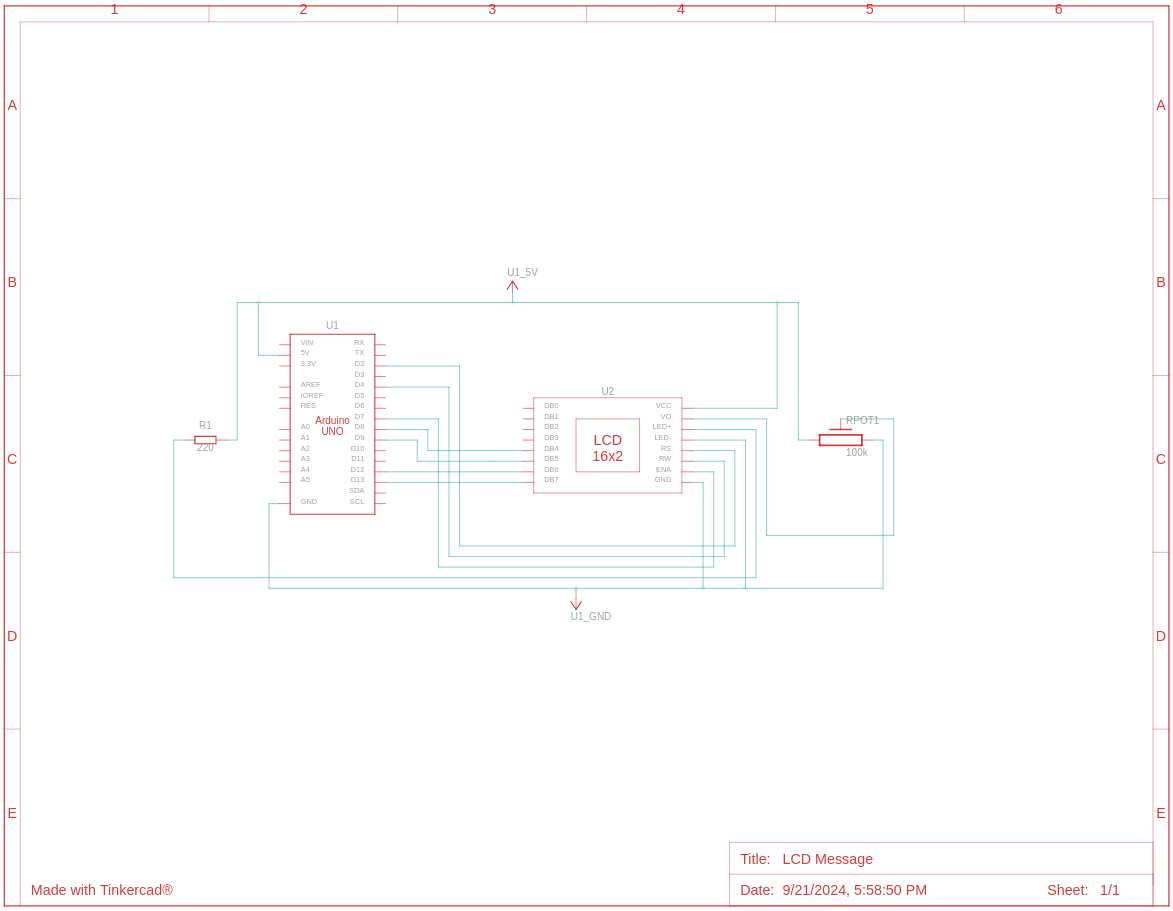
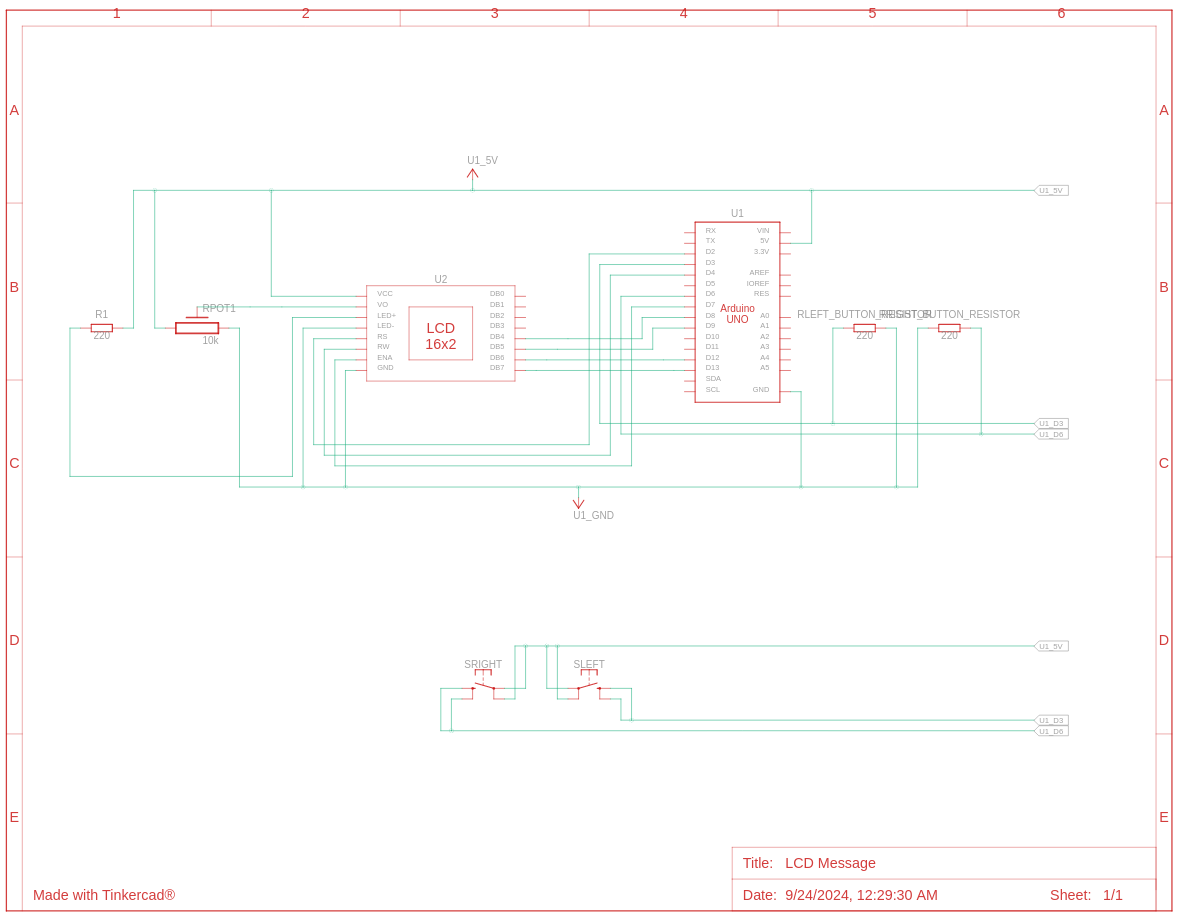
Implemented display shift to left and right so message could be read

diff --git a/lcd/simple_lcd_message/lcd.h b/lcd/simple_lcd_message/lcd.h
@@ -11,6 +11,8 @@
 #define LCD_CMD_RETURN_HOME 0x02 // Also cuold be set to 0b00000010
 #define LCD_CMD_DISPLAY_OFF 0x80 // Also could be set to 0b10000000
 #define LCD_CMD_CURSOR_BLINK 0x0F // Also could be set to 0b00001111
+#define LCD_CMD_SHIFT_TO_LEFT 0x18
+#define LCD_CMD_SHIFT_TO_RIGHT 0x1C
 
 // LCD Data transfer mode
 #define LCD_CMD_4BIT_5x11 0x2c 
@@ -22,6 +24,7 @@
 #define CTL_BUS PORTD
 #define DATA_DDR DDRB
 #define CTL_DDR DDRD
+#define CTL_PIN PIND
 
 // LCD Data pins
 #define LCD_D4 0
@@ -33,6 +36,8 @@
 #define LCD_EN 7
 #define LCD_R_W 4
 #define LCD_RS 2
+#define LCD_LEFT 6
+#define LCD_RIGHT 3
 
 void lcd_init_4bit(void);
 void lcd_init_8bit(void);
@@ -47,5 +52,7 @@ void flash_data(void);
 void clear_data_bus(void);
 void is_lcd_busy(void);
 void send_nibble(unsigned char nibble);
+void shift_display_to_left(void);
+void shift_display_to_right(void);
 
 #endif

diff --git a/lcd/simple_lcd_message/main.c b/lcd/simple_lcd_message/main.c
@@ -7,8 +7,9 @@
 int main(void) {
 	lcd_init_4bit();
 	_delay_ms(20);
-
-	write_message_4bit("COOL LCD");
+	
+	char message[] = "Long message so I can work with display and cursor shift";
+	write_message_4bit(message);
 	// write_character_4bit(0x43); // C 0x43 ASCII hex code
 	// write_character_4bit(0x4F); // O 0x4F ASCII hex code
 	// write_character_4bit(0x4F); // O 0x4F ASCII hex code
@@ -17,8 +18,15 @@ int main(void) {
 	// write_character_4bit(0x4C); // L 0x4C ASCII hex code
 	// write_character_4bit(0x43); // C 0x43 ASCII hex code
 	// write_character_4bit(0x44); // D 0x44 ASCII hex code
-	
+
 	while(1) {
+		if (CTL_PIN & (HIGH << LCD_RIGHT)) {
+			shift_display_to_right();
+		}
+
+		if (CTL_PIN & (HIGH << LCD_LEFT)) {
+			shift_display_to_left();
+		}
 	}
 	
 	return SUCCESS;

diff --git a/lcd/simple_lcd_message/lcd.c b/lcd/simple_lcd_message/lcd.c
@@ -22,6 +22,9 @@ void lcd_init_4bit(void) {
 
 	send_command_4bit(LCD_CMD_CLEAR_DISPLAY);
 	_delay_ms(500);
+
+	// Sets CTL_DDR pins(3 and 6) to input mode so button can be used to control dispalay shift
+	CTL_DDR &= ~(HIGH << LCD_LEFT) & ~(HIGH << LCD_RIGHT);
 }
 
 void send_command_4bit(unsigned char command) {
@@ -119,4 +122,12 @@ void send_nibble(unsigned char nibble) {
 	} else {
 		DATA_BUS &= ~(HIGH << LCD_D7);
 	}
+}
+
+void shift_display_to_left(void) {
+	send_command_4bit(LCD_CMD_SHIFT_TO_LEFT);
+}
+
+void shift_display_to_right(void) {
+	send_command_4bit(LCD_CMD_SHIFT_TO_RIGHT);
 }

diff --git a/lcd/simple_lcd_message/README.md b/lcd/simple_lcd_message/README.md
@@ -1,8 +1,9 @@
 Components used:
 - Arduino Uno R3
 - LCD 16 x 2
-- 220 Ohm Resistor 
-- 10 kOhm Potentiometer 
+- 220 Ohm Resistor x 3 
+- 10 kOhm Potentiometer
+- Push button x 2 
 
 Board schematics:
 ![Board schematic](https://github.com/lazicsrecko/arduino_projects/blob/main/led_operations/simple_lcd_message/lcd_message_circut_design.png)
